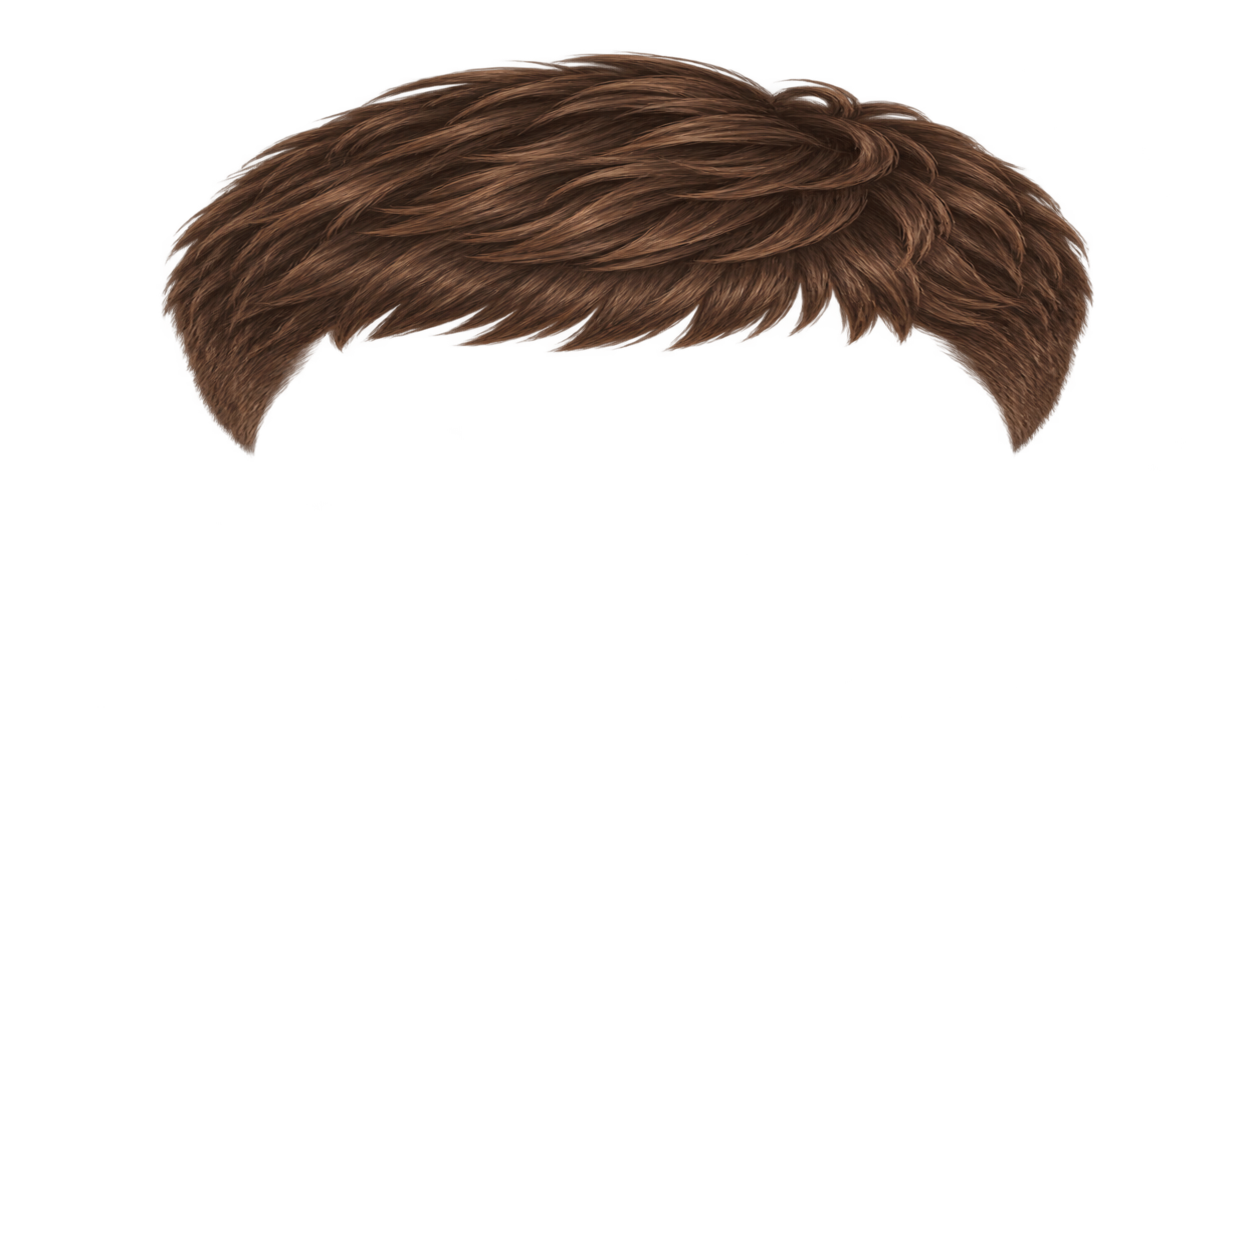
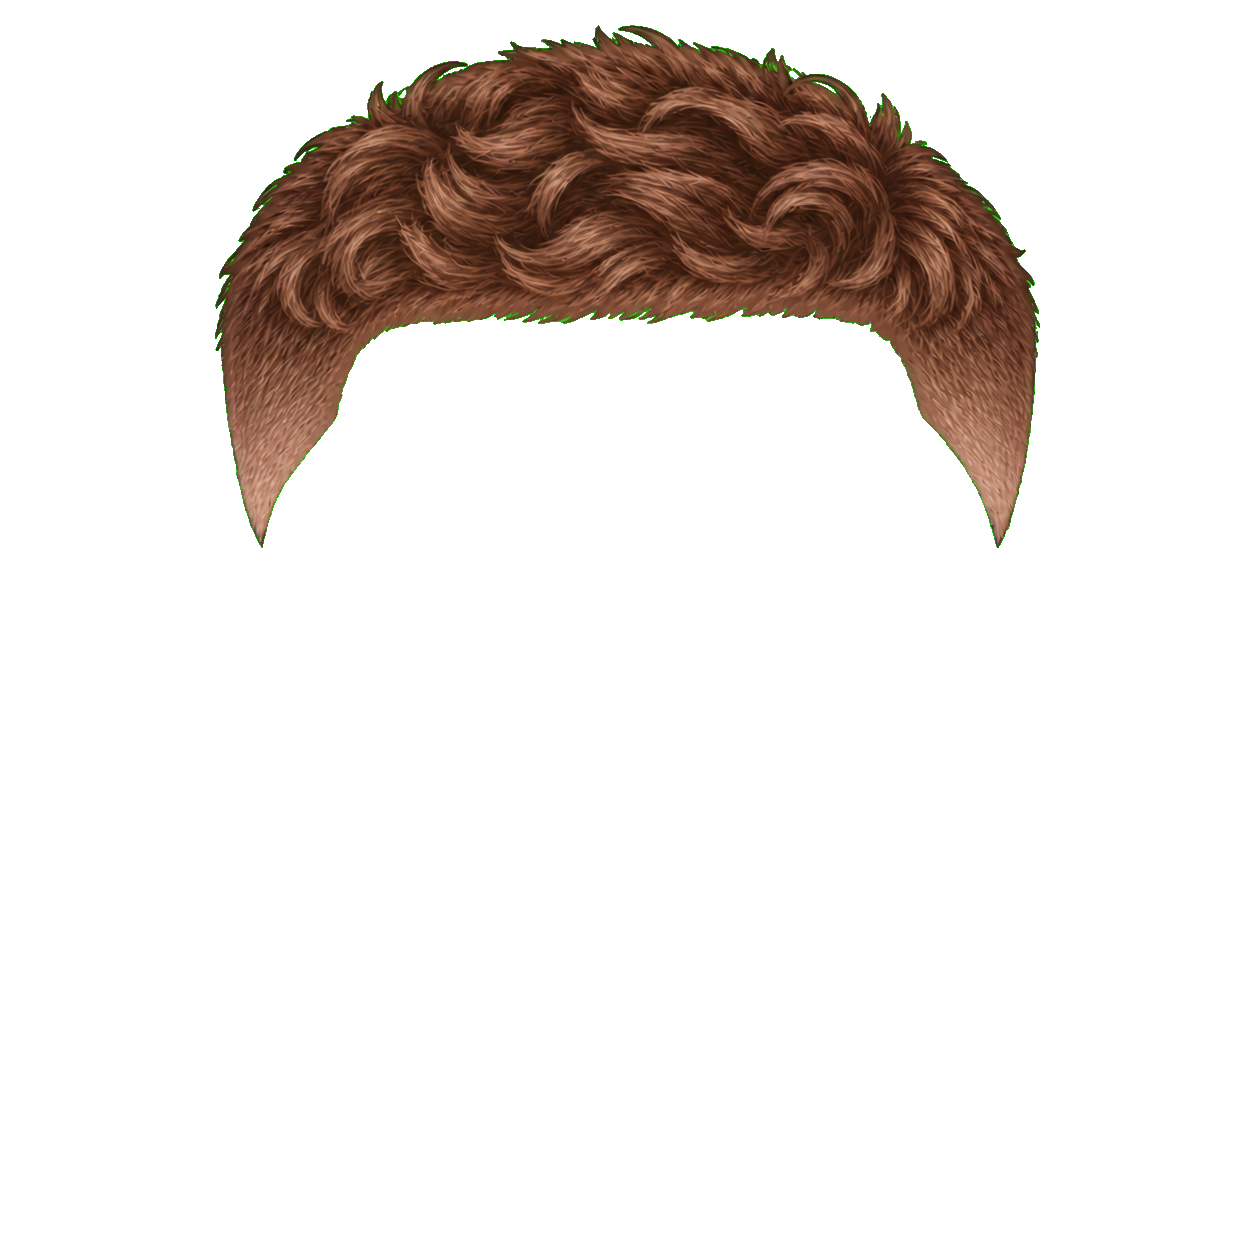
重做：以男生髮型 01 為基準重建短髮

Changed region(s): [[0.1244, 0.0, 0.8708, 0.4354]]

diff --git a/test/avatar_preview_test.dart b/test/avatar_preview_test.dart
@@ -423,6 +423,27 @@ void main() {
     expect(assets.hairScaleX, .9);
   });
 
+  test('keeps rebuilt boy hairstyles on the hair 01 canonical placement', () {
+    for (final String hairId in <String>[
+      'boy_hair_02',
+      'boy_hair_03',
+      'boy_hair_04',
+      'boy_hair_06',
+      'boy_hair_07',
+      'boy_hair_08',
+      'boy_hair_09',
+    ]) {
+      final AvatarAssetBundle assets = AvatarAssetCatalog.resolve(
+        _withOption(AvatarPresentation.boy, 'hair', hairId),
+      );
+
+      expect(assets.hairScale, 1, reason: hairId);
+      expect(assets.hairScaleX, 1, reason: hairId);
+      expect(assets.hairOffsetX, 0, reason: hairId);
+      expect(assets.hairOffsetY, 0, reason: hairId);
+    }
+  });
+
   test('calibrates boy nose and mouth to their facial landmarks', () {
     final AvatarAssetBundle assets = AvatarAssetCatalog.resolve(
       AvatarConfiguration.defaultFor(AvatarPresentation.boy),

diff --git a/docs/plans/2026-09-10-avatar-material-specification.md b/docs/plans/2026-09-10-avatar-material-specification.md
@@ -55,14 +55,14 @@
 | 臉型 | `boy_face_01` | 男生基準臉型；髮型驗收的臉部邊界參考 |
 |  | `boy_face_02`–`boy_face_05` | 其他輪廓版本；變化限定在臉型外輪廓，不改五官基準位置 |
 | 髮型 | `boy_hair_01` | 基準短髮／自然前瀏海 |
-|  | `boy_hair_02` | 短側分髮 |
-|  | `boy_hair_03` | 短髮輪廓變體；需與 01、02 有清楚差異 |
-|  | `boy_hair_04` | 短髮輪廓變體；需與其他款有清楚差異 |
+|  | `boy_hair_02` | 低髮際短側分；左側分線、短而整齊的側邊 |
+|  | `boy_hair_03` | 緊湊短翹髮；僅中央髮頂微微立起，兩側收短 |
+|  | `boy_hair_04` | 極短紋理平瀏海；瀏海停在眉毛上方，輪廓最低 |
 |  | `boy_hair_05` | 短髮輪廓變體；需與其他款有清楚差異 |
-|  | `boy_hair_06` | 刺蝟短髮 |
-|  | `boy_hair_07` | 捲髮／蓬鬆短髮 |
-|  | `boy_hair_08` | 側削短髮 |
-|  | `boy_hair_09` | 短髮造型；不使用馬尾或髮髻 |
+|  | `boy_hair_06` | 緊湊小捲髮；圓弧髮頂、兩側收短 |
+|  | `boy_hair_07` | 柔和波浪短髮；髮量只向頭頂外擴，不往臉內垂落 |
+|  | `boy_hair_08` | 右梳短側分；平順髮頂與乾淨短側邊 |
+|  | `boy_hair_09` | 經典短平頭；低圓髮頂、淺不規則短瀏海 |
 | 眼睛 | `boy_eyes_01` | 預設正常眼睛；唯一需要保留的無眼鏡基準款 |
 |  | `boy_eyes_02`–`boy_eyes_05` | 舊有正常眼睛變體；待人工檢視後決定保留或停止提供 |
 |  | `boy_eyes_06` | 正常眼睛＋圓框眼鏡 |
